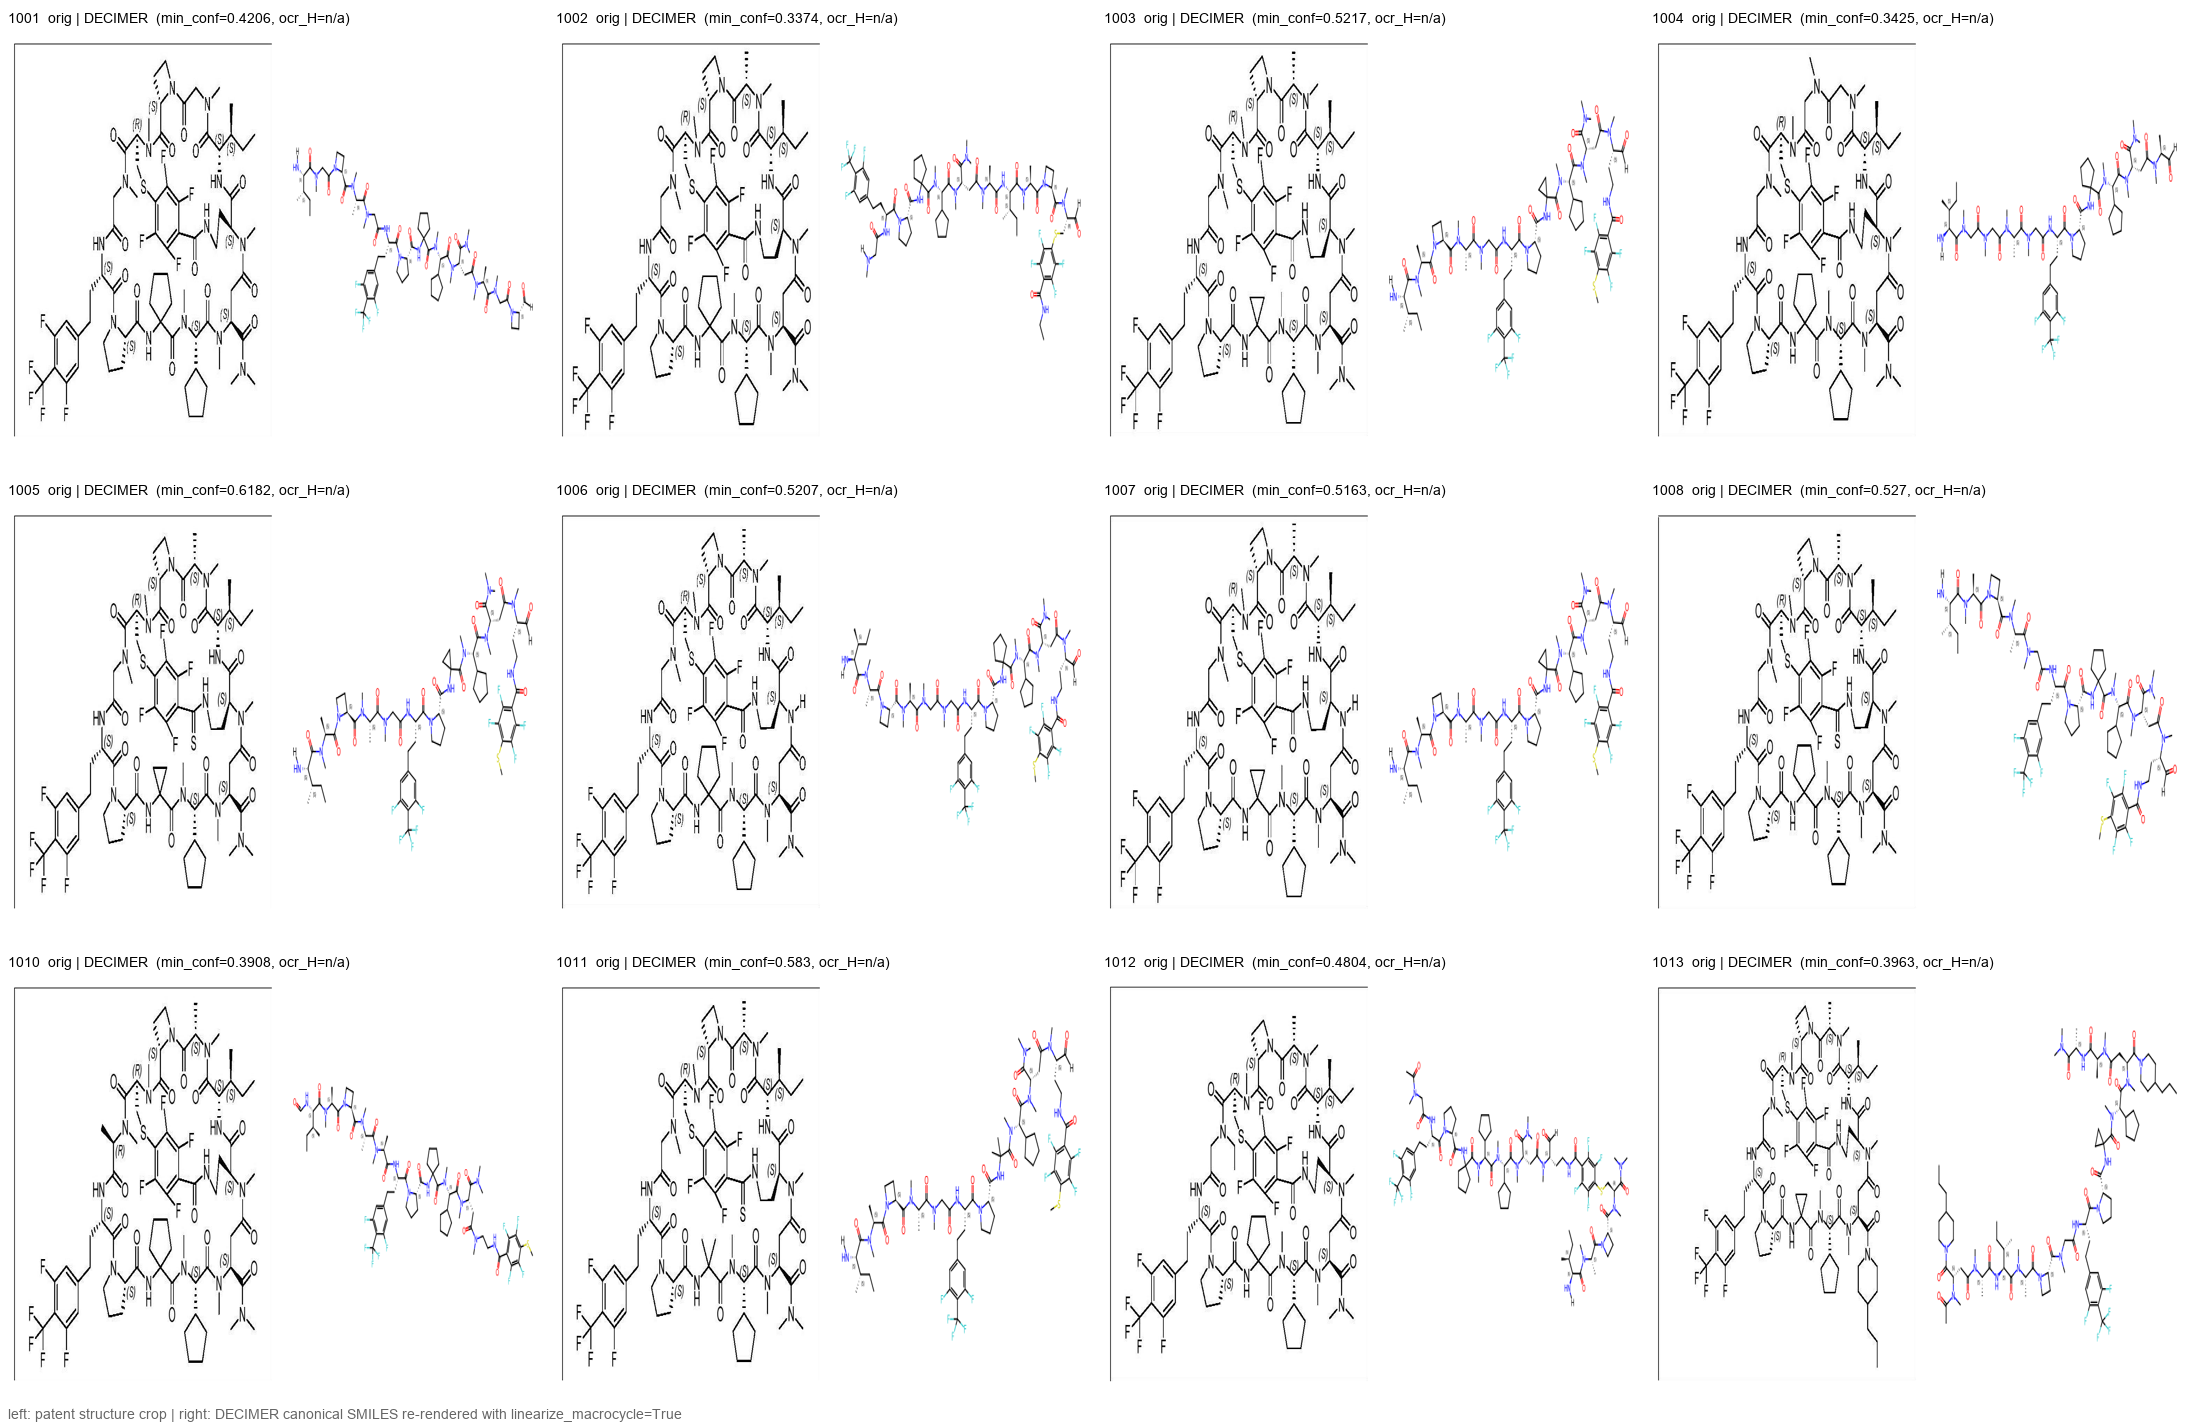
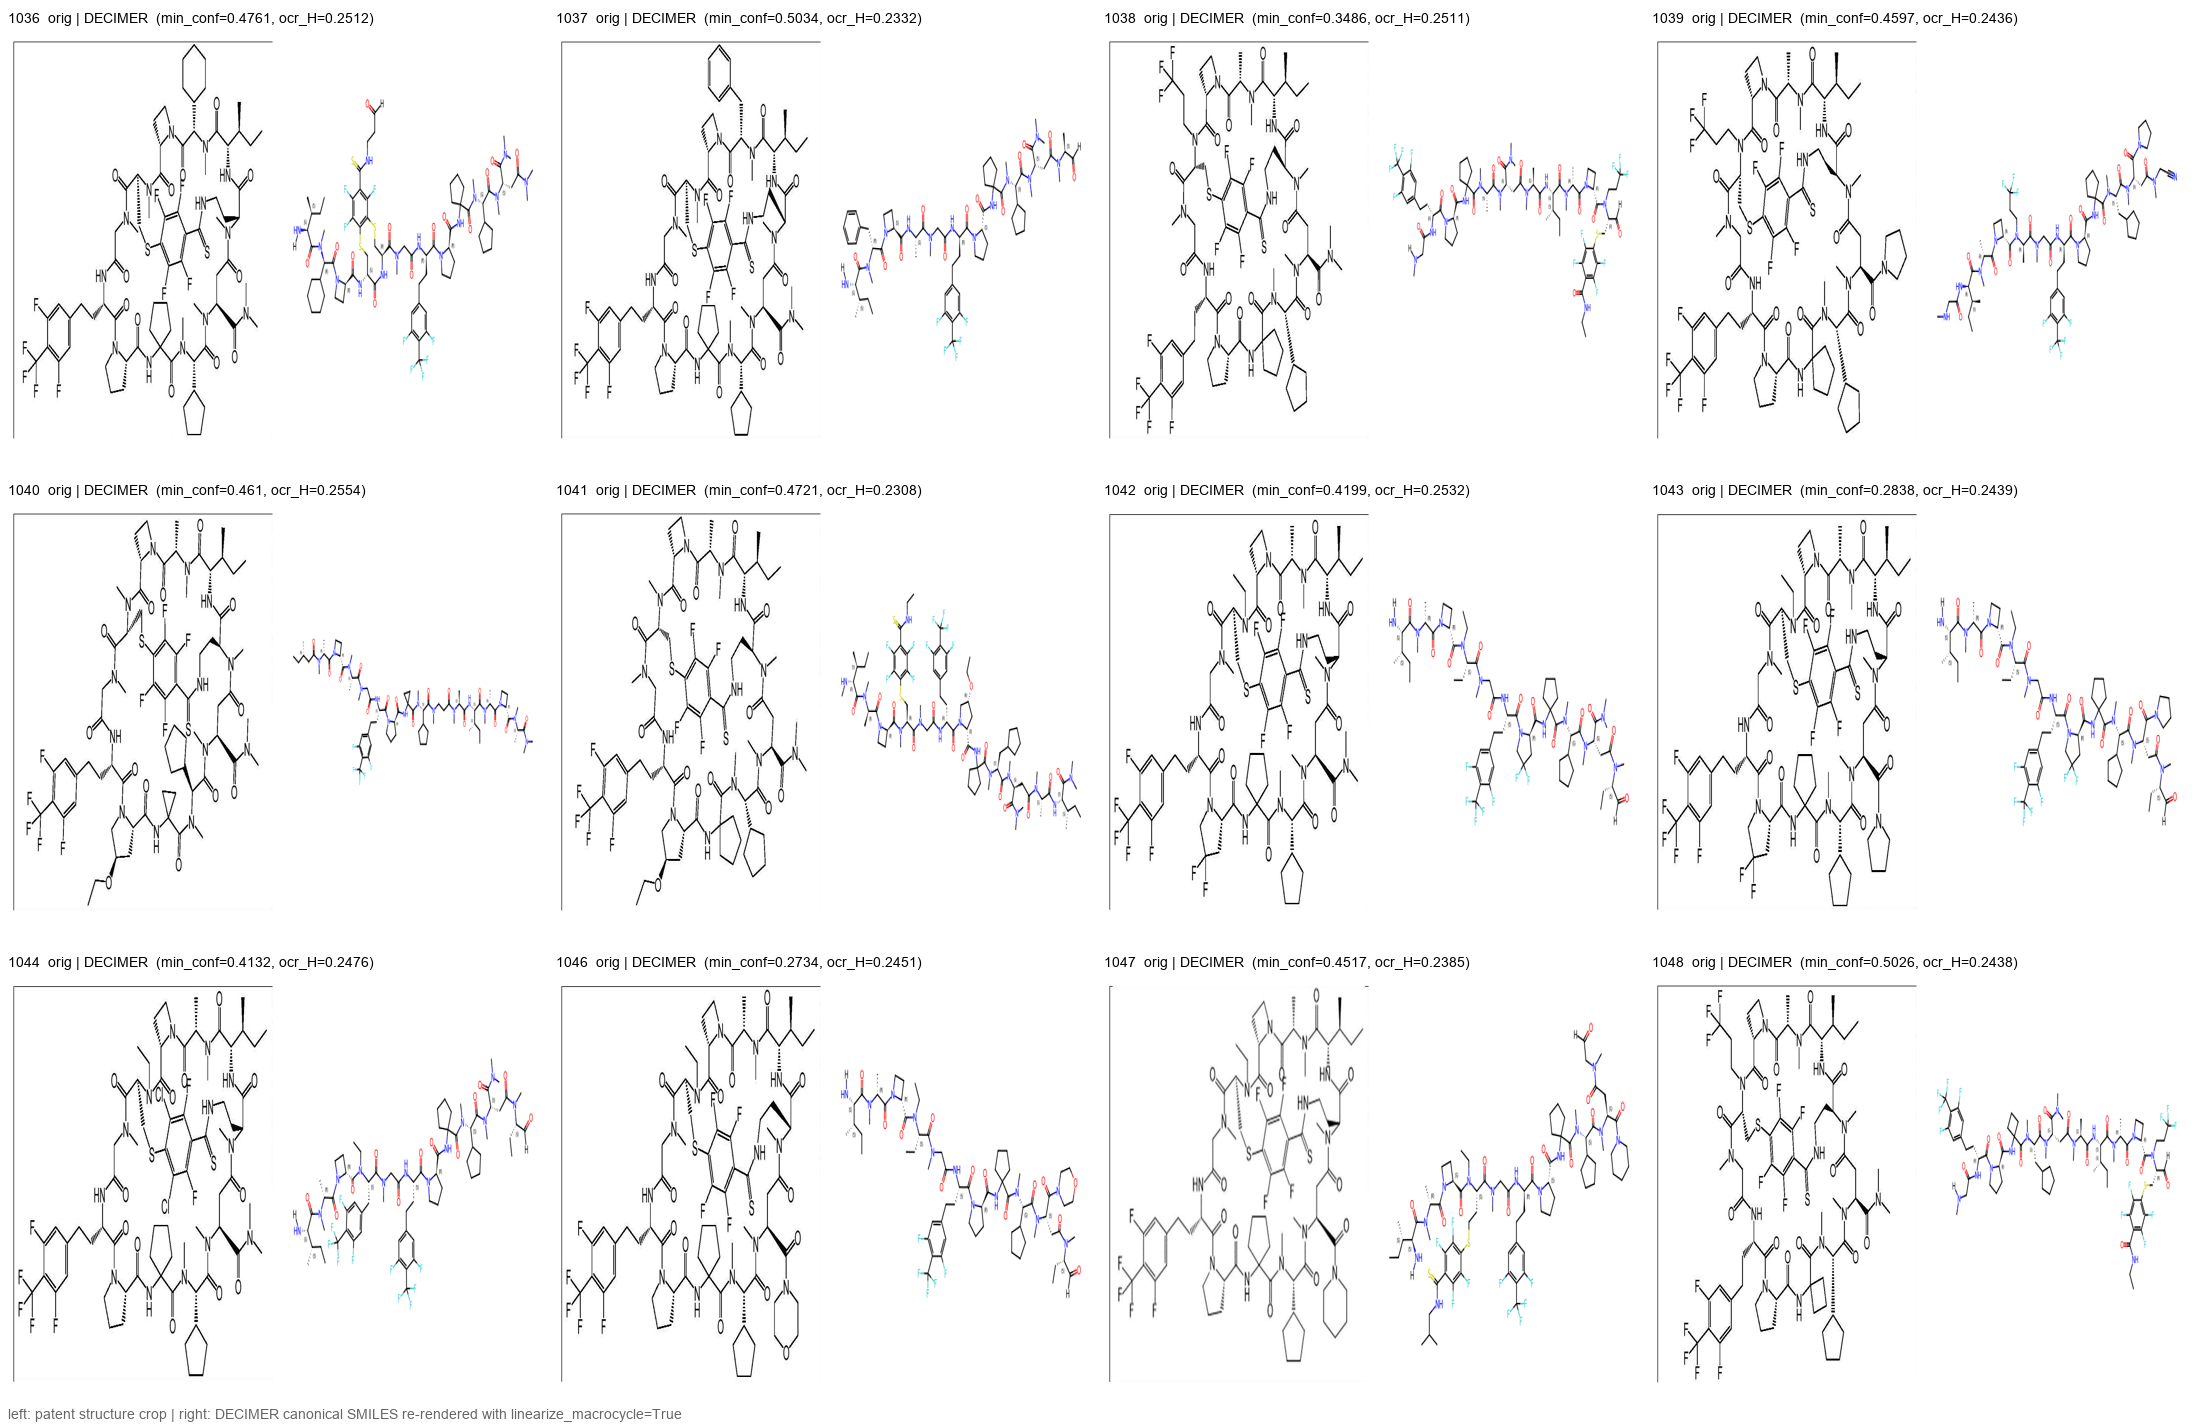
fix: decimer_render in --skip-decimer branch; demo prefers SMILES-table cmpds
main: --skip-decimer branch now also initialises decimer_render={}

_demo_pipeline_render: prefer cmpds with ocr_avg_entropy so grid titles show real numbers

diff --git a/_demo_pipeline_render.py b/_demo_pipeline_render.py
@@ -40,7 +40,13 @@ renders = {p.stem: p for p in rendered_dir.glob("*.png")}
 print(f"available renders: {len(renders)}")
 
 both = sorted(set(structs) & set(renders))
-both = both[:12]  # 12-cmpd grid
+# Prefer cmpds that have a measured ocr_avg_entropy (i.e. came from a
+# SMILES table, not an activity-only table) so the title shows real
+# numbers instead of n/a.
+with_entropy = [cid for cid in both if by_id.get(cid, {}).get("ocr_avg_entropy", "") not in ("", None)]
+without = [cid for cid in both if cid not in with_entropy]
+both = (with_entropy + without)[:12]
+print(f"  of which {len(with_entropy)} have ocr entropy data")
 print(f"showing {len(both)} cmpds with both crops")
 
 # Layout: 4 cols x 3 rows, each cell 540x440 (left = orig, right = render)

diff --git a/main.py b/main.py
@@ -621,6 +621,7 @@ def run_pipeline(
     if skip_decimer:
         print("\n[3/4] skipping DECIMER (--skip-decimer); combined CSV will have empty decimer columns")
         decimer_raw, decimer_canon, decimer_min_conf, decimer_low_conf = {}, {}, {}, {}
+        decimer_render = {}
     else:
         print(f"\n[3/4] running DECIMER (OCSR) on cropped structures "
               f"(limit={decimer_limit}, offset={decimer_offset}) ...")
